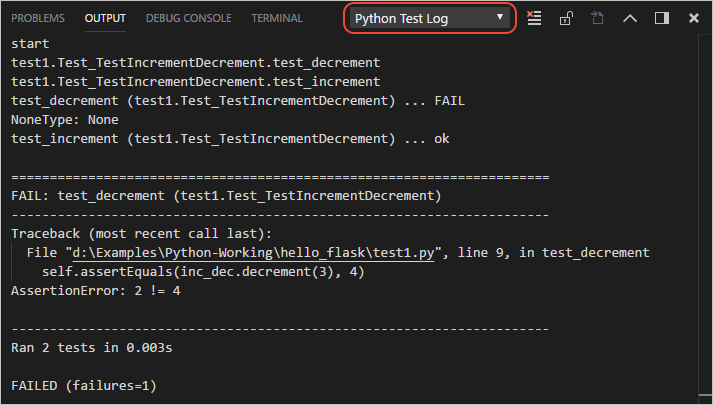
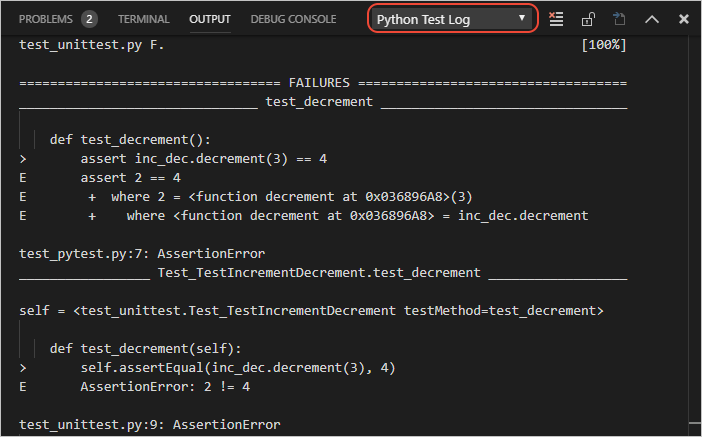
Update unit testing article, adding pytest

diff --git a/docs/python/unit-testing.md b/docs/python/unit-testing.md
@@ -4,35 +4,79 @@ Area: python
 TOCTitle: Unit Testing
 ContentId: 9480bef3-4dfc-4671-a454-b9252567bc60
 PageTitle: Unit Testing Python in Visual Studio Code
-DateApproved: 11/19/2018
+DateApproved: 01/30/2019
 MetaDescription: Unit Testing Python in Visual Studio Code
 MetaSocialImage: images/tutorial/social.png
 ---
 # Python unit tests in Visual Studio Code
 
-The Python extension supports unit testing with Python's built-in [unittest](https://docs.python.org/3/library/unittest.html) framework as well as [pytest](https://docs.pytest.org/en/latest/) and [Nose](https://nose.readthedocs.io/en/latest/). To use either pytest and Nose, they must be installed into the current Python environment (the one identified in the `pythonPath` setting, see [Environments](/docs/python/environments.md)).
+The Python extension supports unit testing with Python's built-in [unittest](https://docs.python.org/3/library/unittest.html) framework as well as [pytest](https://docs.pytest.org/en/latest/). [Nose](https://nose.readthedocs.io/en/latest/) is also supported, although the framework itself is in maintenance mode.
 
-After [enabling a test framework](#enable-a-test-framework), use the **Python: Discover Unit Tests** command to scan the project for tests according to the discovery patterns of the currently selected test framework (see [Test discovery](#test-discovery). Once discovered, Visual Studio Code provides a variety of means to run tests (see [Run tests](#run-tests)) and debug tests (see [Debug tests](#debug-tests)). VS Code displays unit test output in the **Python Test Log** panel, including errors caused when a test framework is not installed.
+After [enabling a test framework](#enable-a-test-framework), use the **Python: Discover Unit Tests** command to [scan the project for tests](#test-discovery) according to the discovery patterns of the currently selected test framework. Once discovered, Visual Studio Code provides a variety of means to [run tests](#run-tests) and [debug tests](#debug-tests). VS Code displays unit test output in the **Python Test Log** panel, including errors caused when a test framework is not installed. With PyTest, failed tests also appear in the **Problems** panel.
 
-> **Tip**: a useful repository containing a variety of unit tests, applied to different sorting algorithms, is [https://github.com/gwtw/py-sorting](https://github.com/gwtw/py-sorting).
+## A little background on unit testing
 
-For a general background on unit testing, see [Unit Testing](https://wikipedia.org/wiki/Unit_testing) on Wikipedia.
+(If you're already familiar with unit testing, you can skip to the [walkthroughs](#example-test-walkthroughs).)
 
-## An example test and walkthrough
+A *unit* is a specific piece of code to be tested, such as a function or a class. *Unit tests* are then other pieces of code that specifically exercise the code unit with a full range of different inputs, including boundary and edge cases.
 
-Python tests are Python classes that are saved in separate files from the code being tested. How you write tests and how you save test files depends on the conventions of the framework you're using. Once you've written tests and have enabled a test framework, VS Code locates those tests and provides you with various commands to run and debug them.
+For example, say you have a function to validate the format of an account number that a user enters in a web form:
 
-The following steps give you a quick walkthrough of working with tests in VS Code. The sections that follow then go into more detail about test discovery, running tests, and debugging tests.
+```python
+def validate_account_number_format(account_string):
+    # Return false if invalid, true if valid
+    # ...
+```
 
-1. Enable the unittest framework by adding the following entries to your user (or workspace) settings. We recommend explicitly enabling one framework and disabling the others as shown here:
+Unit tests are concerned only with the unit's *interface*&mdash;its arguments and return values&mdash;not with its implementation (which is why no code is shown here in the function body; often you'd be using other well-tested libraries to help implement the function). In this example, the function accepts any string and returns true if that string contains a properly formatted account number, false otherwise.
 
-    ```json
-    "python.unitTest.unittestEnabled": true,
-    "python.unitTest.pyTestEnabled": false,
-    "python.unitTest.nosetestsEnabled": false,
-    ```
+To thoroughly test this function, you want to throw at it every conceivable input: valid strings, mistyped strings (off by one or two characters, or containing invalid characters), strings that are too short or too long, blank strings, null arguments, strings containing control characters (non-text codes), string containing HTML, strings containing injection attacks (such as SQL commands or JavaScript code), and so on. It's especially important to test security cases like injection attacks if the validated string is later used in database queries or displayed in the app's UI.
 
-1. Create a file named `inc_dec.py` with the following code to be tested:
+For each input, you then define the function's expected return value (or values). In this example, again, the function should return true for only properly formatted strings. (Whether the number itself is a real account is a different matter that would be handled elsewhere through a database query.)
+
+With all the arguments and expected return values in hand, you now write the tests themselves, which are simply pieces of code that call the function with a particular input, then compare the actual return value with the expected return value (this comparison is called an *assertion*):
+
+```python
+# Import the code to be tested
+import validator
+
+# Import the unit test framework (this is a hypothetical module)
+import test_framework
+
+# This is a generalized example, not specific to a test framework
+class Test_TestAccountValidator(test_framework.TestBaseClass):
+    def test_validator_valid_string():
+        # The exact assertion call depends on the framework as well
+        assert(validate_account_number_format("1234567890"), true)
+
+    # ...
+
+    def test_validator_blank_string():
+        # The exact assertion call depends on the framework as well
+        assert(validate_account_number_format(""), false)
+
+    # ...
+
+    def test_validator_sql_injection():
+        # The exact assertion call depends on the framework as well
+        assert(validate_account_number_format("drop database master"), false)
+
+    # ... tests for all other cases
+```
+
+The exact structure of the code depends on the unit test framework you're using, and specific examples are provided later in this article. In any case, as you can see, each test is very simple: invoke the function with an argument and assert the expected return value.
+
+The combined results of all the tests is your test report, which tells you whether the function (the unit), is behaving as expected across all test cases. That is, when a unit passes all of its tests, you can be confident that it's functioning properly. (The practice of *test-driven development* is where you actually write the tests first, then write the code to pass more and more tests until all of them pass.)
+
+Because unit tests are small, isolated piece of code (in unit testing you avoid external dependencies and use mock data or otherwise simulated inputs), they're quick and inexpensive to run. This characteristic means means that you can run unit tests early and often. Developers typically run unit tests even before committing code to a repository; gated check-in systems can also run unit tests before merging a commit. Many continuous integration systems also run unit tests after every build. Running the unit test early and often means that you quickly catch *regressions,* which are unexpected changes in the behavior of code that previously passed all its unit tests. Because the test failure can easily be traced to a particular code change, it's easy to find and remedy the cause of the failure, which is undoubtedly better than discovering a problem much later in the process!
+
+For a general background on unit testing, see [Unit Testing](https://wikipedia.org/wiki/Unit_testing) on Wikipedia. For a variety of useful unit test examples, see [https://github.com/gwtw/py-sorting](https://github.com/gwtw/py-sorting), a repository with tests for different sorting algorithms.
+
+## Example test walkthroughs
+
+Python tests are Python classes that reside in separate files from the code being tested. Each test framework specifies the structure and naming of tests and test files. Once you write tests and enable a test framework, VS Code locates those tests and provides you with various commands to run and debug them.
+
+For this section, create a folder and open it in VS Code. Then create a file named `inc_dec.py` with the following code to be tested:
 
     ```python
     def increment(x):
@@ -42,50 +86,7 @@ The following steps give you a quick walkthrough of working with tests in VS Cod
         return x - 1
     ```
 
-1. Create a file named `test1.py` that contains a test class with two test methods, one of which is intentionally set to fail for the purposes of demonstration:
-
-    ```python
-    import unittest
-    import inc_dec
-
-    class Test_TestIncrementDecrement(unittest.TestCase):
-        def test_increment(self):
-            self.assertEqual(inc_dec.increment(3), 4)
-
-        def test_decrement(self):
-            self.assertEqual(inc_dec.decrement(3), 4)
-
-    if __name__ == '__main__':
-        unittest.main()
-    ```
-
-1. When using unittest, VS Code by default looks for tests whenever you save a recognized test file. The unittest framework specifically looks for files with "test" anywhere in the filename, as in `test1.py`. Once VS Code recognizes tests, it provides several ways to run those tests as shown later in [Running tests](#running-tests). The most obvious means are CodeLens adornments that appear directly in the editor and allow you to easily run a single test method or a test class:
-
-    ![Test adornments that appear in the VS Code editor for unit test code](images/unit-testing/editor-adornments.png)
-
-    > **Note**: At present, the Python extension doesn't provide a setting to turn the adornments on or off. To suggest a different behavior, file an issue on the [vscode-python repository](https://github.com/Microsoft/vscode-python/issues).
-
-1. For this walkthrough, select **Run Test** above the **class** to run all the tests in the class.
-
-    ![Run test adornments on a unit test class](images/unit-testing/run-test-adornment.png)
-
-1. VS Code displays tests results directly in the editor, where you can see that one test passed and one failed:
-
-    ![Test result adornments on a unit test method](images/unit-testing/result-adornments.png)
-
-    VS Code also shows test results in the **Python Test Log** output panel (use the **View** > **Output** menu command to show the **Output** panel, then select **Python Test Log** from the drop-down on the right side):
-
-    ![Test results in the Python Test Log output panel](images/unit-testing/python-test-log-output.png)
-
-1. To more closely analyze a test, set a breakpoint on first the line in the `test_decrement` function, that reads `self.assertEqual(inc_dec.decrement(3), 4)`. Then select the **Debug Test** adornment above that function. VS Code starts the debugger and pauses at the breakpoint. In this case, you can use the **Debug Console** panel to enter `inc_dec.decrement(3)` and see the actual result is 2 and that the expected result of 4 is incorrect. Stop the debugger and correct that line of code:
-
-    ```python
-    self.assertEqual(inc_dec.decrement(3), 2)
-    ```
-
-1. Save the file and run the test again to see that it passes.
-
-> **Note**: running or debugging a unit test does not automatically save the test file. Always be sure to save changes to a test before running it, otherwise you'll likely be confused by the results because they still reflect the previous version of the file!
+With this code, you can experience working with tests in VS Code as described in the sections that follow.
 
 ## Enable a test framework
 
@@ -93,7 +94,11 @@ Unit testing in Python is disabled by default. To enable unit testing, set *one 
 
 It's important that you enable only a single test framework at a time. For this reason, when you enable one framework also be sure to disable the others.
 
-To enable unittest, for example, use the following settings:
+When you enable a test framework, VS Code prompts you to install the framework package if it's not already present in the currently activated environment:
+
+![VS Code prompt to install a test framework when enabled](images/unit-testing/install-framework.png)
+
+### Settings to enable unittest
 
 ```json
 "python.unitTest.unittestEnabled": true,
@@ -101,7 +106,7 @@ To enable unittest, for example, use the following settings:
 "python.unitTest.nosetestsEnabled": false,
 ```
 
-To enable pyTest:
+### Settings to enable pytest
 
 ```json
 "python.unitTest.unittestEnabled": false,
@@ -109,12 +114,51 @@ To enable pyTest:
 "python.unitTest.nosetestsEnabled": false,
 ```
 
-To enable Nose:
+### Settings to enable Nose
 
 ```json
 "python.unitTest.unittestEnabled": false,
 "python.unitTest.pyTestEnabled": false,
 "python.unitTest.nosetestsEnabled": true,
+```
+
+## Create tests
+
+Each test framework has its own conventions for naming test files and structuring the tests within, as described in the following sections. Each case includes two test methods, one of which is intentionally set to fail for the purposes of demonstration.
+
+Because Nose is in maintenance mode and not recommended for new projects, only unittest and pytest examples are shown in the sections that follow. (Nose2, the successor to Nose, is just unittest with plugins, and so it follows the unittest patterns shown here.)
+
+### Tests in unittest
+
+Create a file named `test_unittest.py` that contains a test class with two test methods:
+
+```python
+import inc_dec    # The code to test
+import unittest   # The test framework
+
+class Test_TestIncrementDecrement(unittest.TestCase):
+    def test_increment(self):
+        self.assertEqual(inc_dec.increment(3), 4)
+
+    def test_decrement(self):
+        self.assertEqual(inc_dec.decrement(3), 4)
+
+if __name__ == '__main__':
+    unittest.main()
+```
+
+### Tests in pytest
+
+Create a file named `test_pytest.py` that contains two test methods:
+
+```python
+import inc_dec    # The code to test
+
+def test_increment():
+    assert inc_dec.increment(3) == 4
+
+def test_decrement():
+    assert inc_dec.decrement(3) == 4
 ```
 
 ## Test discovery
@@ -123,27 +167,46 @@ VS Code uses the currently enabled unit testing framework to discover tests. You
 
 `python.unitTest.autoTestDiscoverOnSaveEnabled` is set to `true` by default, meaning test discovery is performed automatically whenever you save a test file. To disable this feature, set the value to `false`.
 
-Test discovery applies the discovery patterns specified in the arguments setting for the current test framework:  `python.unitTest.unittestArgs`, `python.unitTest.pyTestArgs`, or `python.unitTest.nosetestArgs` as described under [Test configuration settings](#test-configuration-settings).
+Test discovery applies the discovery patterns for the current framework (which can be customized using the [Test configuration settings](#test-configuration-settings)). The default behavior is as follows:
+
+- `python.unitTest.unittestArgs`: Looks for any Python (`.py`) file with "test" in the name in the top-level project folder. All test files must be importable modules or packages. You can customize the file matching pattern with the `-p` configuration setting, and customize the folder with the `-t` setting.
+
+- `python.unitTest.pyTestArgs`: Looks for any Python (`.py`) file whose name begins with "test\_" or ends with "\_test", located anywhere within the current folder and all subfolders.
 
 > **Tip**: Sometimes unit tests placed in subfolders aren't discovered because such test files cannot be imported. To make them importable, create an empty file named `__init__.py` in that folder.
+
+Once VS Code recognizes tests, it provides several ways to run those tests as described in [Run tests](#run-tests). The most obvious means are CodeLens adornments that appear directly in the editor and allow you to easily run a single test method or, with unittest, a test class:
+
+![Test adornments that appear in the VS Code editor for unittest code](images/unit-testing/editor-adornments-unittest.png)
+
+![Test adornments that appear in the VS Code editor for pytest code](images/unit-testing/editor-adornments-pytest.png)
+
+
+> **Note**: At present, the Python extension doesn't provide a setting to turn the adornments on or off. To suggest a different behavior, file an issue on the [vscode-python repository](https://github.com/Microsoft/vscode-python/issues).
+
+If discovery fails (for example, the test framework isn't installed), you see a notification on the status bar. Selecting the notification provides more information:
+
+![Status bar showing that test discovery failed](images/unit-testing/discovery-failed-status-bar.png)
+
+If discovery succeeds, the status bar shows **Run Tests** instead:
+
+![Status bar showing successful test discovery failed](images/unit-testing/discovery-succeeded-status-bar.png)
 
 ## Run tests
 
 You run tests using any of the following actions:
 
-- Select `Run Tests` on the Status Bar (which can change appearance based on results),
+- With a test file open, select the **Run Test** CodeLens adornment that appears above a test method or a class, as shown in the previous section. This command runs only that one method or only those tests in the class.
 
-    ![Test command on the VS Code status bar](images/unit-testing/status-bar-run-tests.png)
+- Select **Run Tests** on the Status Bar (which can change appearance based on results),
 
-    then select one of the commands like `Run All Tests` or `Run Failed Unit Tests`:
+    ![Test command on the VS Code status bar](images/unit-testing/discovery-succeeded-status-bar.png)
+
+    then select one of the commands like **Run All Unit Tests** or **Run Failed Unit Tests**:
 
     ![Test commands that appear after using the Run Tests status bar command](images/unit-testing/run-test-commands.png)
 
-- Right-click a file in Explorer and select `Run Unit Tests`, which runs the tests in that one file.
-
-- Open a test file and select the `Run Test` CodeLens adornment that appears above a test class or a method. This command runs only those tests in the class or runs that one test method, respectively.
-
-    ![Python unit testing commands in the editor](images/unit-testing/editor-adornments.png)
+- Right-click a file in Explorer and select **Run All Unit Tests**, which runs the tests in that one file.
 
 - From the **Command Palette**, select any of the run unit test commands:
 
@@ -160,9 +223,45 @@ You run tests using any of the following actions:
     | Run Unit Test Method | Prompts for the name of a test to run, providing auto-completion for test names. |
     | Show Unit Test Output | Opens the Python Test Log panel with information about passing and failing tests, as well as errors and skipped tests. |
 
+After a test run, VS Code displays results directly with the CodeLens adornments in the editor. Here, you can see that that one test passed and one failed. In the case of unittest, you can also see that the test class as a whole failed because at least one of its tests failed. In the case of pytest, failed tests are also adorned with a red underline.
+
+![Test result adornments on a unittest class](images/unit-testing/result-adornments-unittest.png)
+
+![Test result adornments on pytest methods](images/unit-testing/result-adornments-pytest.png)
+
+VS Code also shows test results in the **Python Test Log** output panel (use the **View** > **Output** menu command to show the **Output** panel, then select **Python Test Log** from the drop-down on the right side):
+
+![Test results in the Python Test Log output panel](images/unit-testing/python-test-log-output.png)
+
+With PyTest, failed tests also appear in the **Problems** panel, where you can double-click on an issue to navigate directly to the test:
+
+![Test results for pytest in the Problems panel](images/unit-testing/python-test-problems-output.png)
+
 ## Debug tests
 
-Because unit tests themselves are source code, they are prone to code defects just like the production code they test. For this reason, you may occasionally need to step through unit tests in the debugger.
+Because unit tests themselves are source code, they are prone to code defects just like the production code they test. For this reason, you may occasionally need to step through and analyze unit tests in the debugger.
+
+For example, the `test_decrement` functions given earlier are failing because the assertion itself is faulty. The following steps demonstrate how to analyze the test:
+
+1. Set a breakpoint on first the line in the `test_decrement` function.
+
+1. Select the **Debug Test** adornment above that function. VS Code starts the debugger and pauses at the breakpoint.
+
+1. In the **Debug Console** panel, enter `inc_dec.decrement(3)` to see that the actual result is 2, whereas the expected result specified in the test is the incorrect value of 4.
+
+1. Stop the debugger and correct the faulty code:
+
+    ```python
+    # unittest
+    self.assertEqual(inc_dec.decrement(3), 2)
+
+    # pytest
+    assert inc_dec.decrement(3) == 4
+    ```
+
+1. Save the file and run the tests again to confirm that they pass, and see that the CodeLens adornments also indicate passing status.
+
+    > **Note**: running or debugging a unit test does not automatically save the test file. Always be sure to save changes to a test before running it, otherwise you'll likely be confused by the results because they still reflect the previous version of the file!
 
 The **Python: Debug All Tests** and **Python: Debug Unit Test Method** commands (on both the Command Palette and Status Bar menu) launch the debugger for all tests and a single test method, respectively.
 
